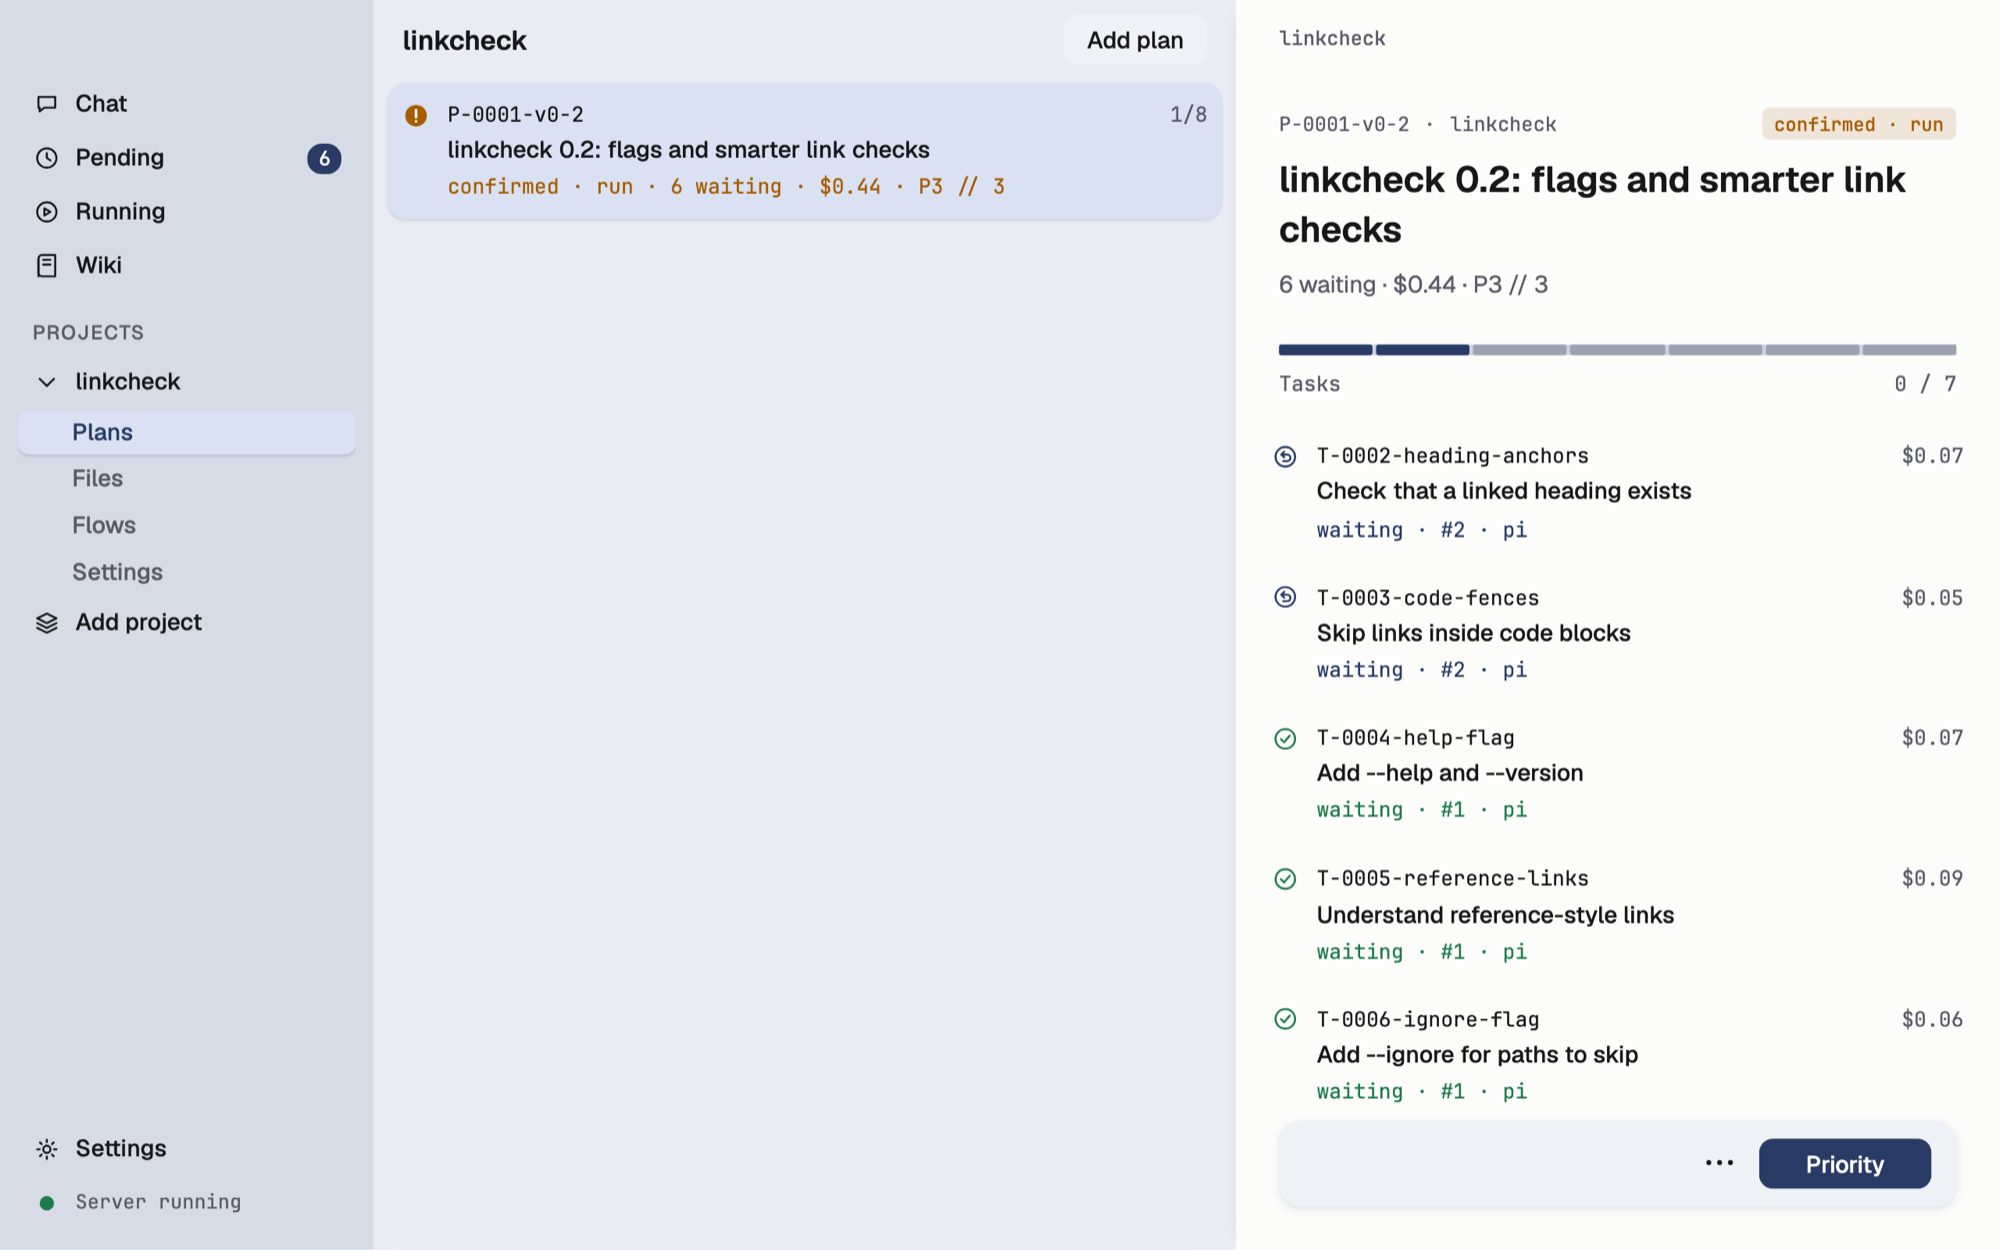
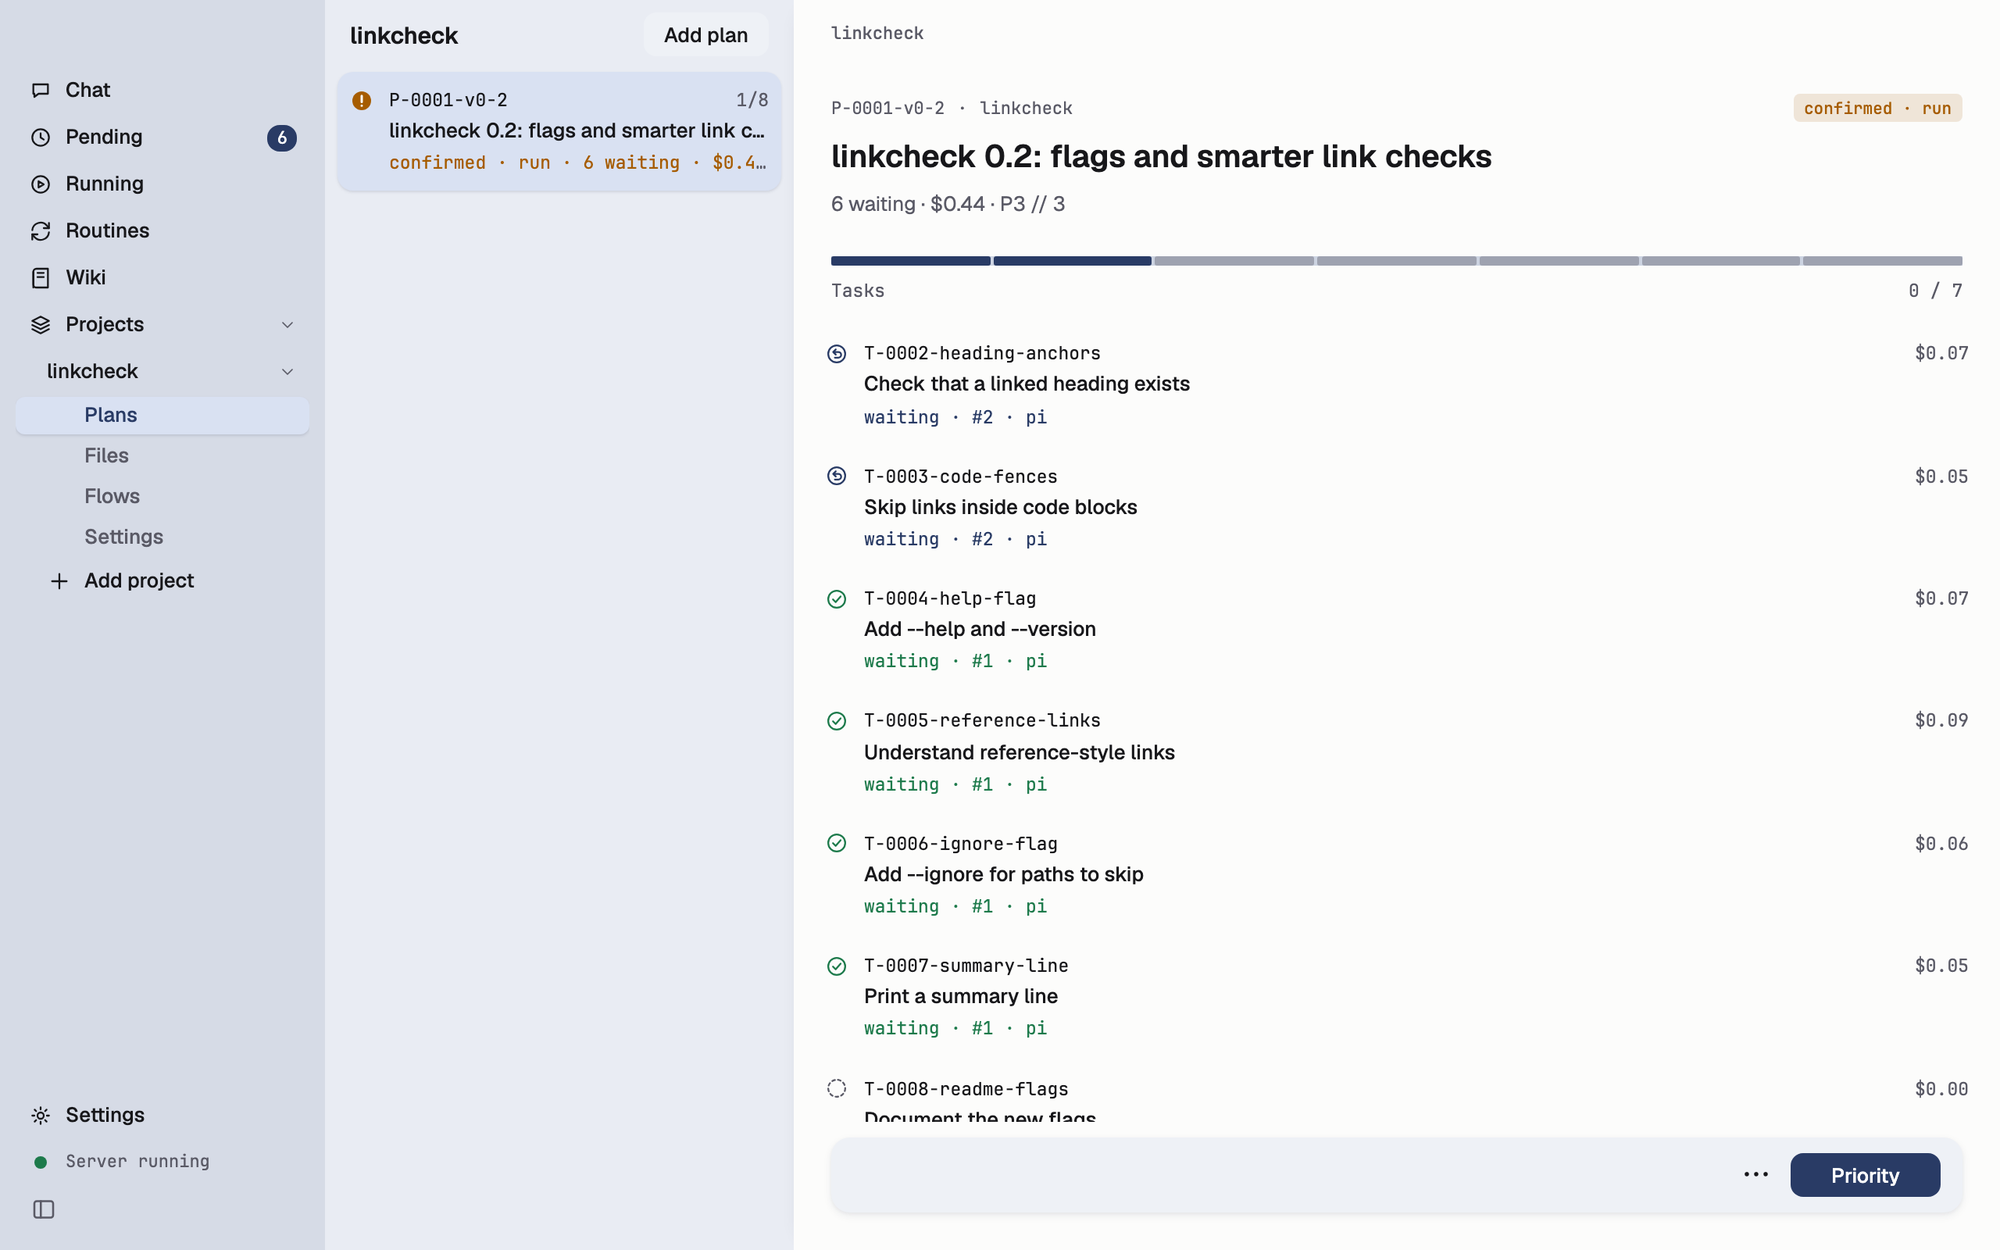
Hero: the flow-not-roles line, a new screenshot with a narrower list, and the CLI link goes to Install

diff --git a/zh/index.html b/zh/index.html
@@ -80,7 +80,7 @@
 }
 </script>
 <link rel="icon" href="../favicon.svg" type="image/svg+xml">
-<link rel="stylesheet" href="../style.css?v=hero2">
+<link rel="stylesheet" href="../style.css?v=hero4">
 <script>document.documentElement.classList.add('js')</script>
 </head>
 <body>
@@ -107,13 +107,13 @@
 <section class="hero hero-app board" aria-label="operad">
   <div class="tile paper name">
     <p class="state s3">agent 任务的代数。</p>
-    <p class="lede">operad 是数学里研究运算怎么组合的结构。在这里，运算是 agent 做出一份产出的过程：需求进去，一个结果出来，再接到下一步。flow 就是你把它们接起来的方式。</p>
+    <p class="lede"><b class="tenet">编排多个 agent，是编排任务要走的流程，不是给 agent 分派角色。</b>operad 是数学里研究运算怎么组合的结构。在这里，运算是 agent 做出一份产出的过程：需求进去，一个结果出来，再接到下一步。flow 就是你把它们接起来的方式。</p>
     <h1>operad</h1>
-    <p class="dl"><a class="btn-dl" href="https://github.com/operad-io/operad/releases/download/v0.3.1/operad-0.3.1-arm64.dmg">下载 macOS 版</a><a class="alt" href="#developers">或安装命令行</a></p>
+    <p class="dl"><a class="btn-dl" href="https://github.com/operad-io/operad/releases/download/v0.3.1/operad-0.3.1-arm64.dmg">下载 macOS 版</a><a class="alt" href="#install">或安装命令行</a></p>
   </div>
 
   <div class="tile soft shot shutter" aria-label="operad 桌面应用：一个计划里的八个任务，有的已合并，有的在等待，有的在运行">
-    <div class="shutter-in"><img src="../media/desktop-plan.png" width="2000" height="1250" alt="operad 桌面应用：一个计划里的八个任务，有的已合并，有的在等待，有的在运行"></div>
+    <div class="shutter-in"><img src="../media/desktop-plan.png?v=4" width="2000" height="1250" alt="operad 桌面应用：一个计划里的八个任务，有的已合并，有的在等待，有的在运行"></div>
   </div>
 
   <div class="pair">

diff --git a/index.html b/index.html
@@ -80,7 +80,7 @@
 }
 </script>
 <link rel="icon" href="favicon.svg" type="image/svg+xml">
-<link rel="stylesheet" href="style.css?v=hero2">
+<link rel="stylesheet" href="style.css?v=hero4">
 <script>document.documentElement.classList.add('js')</script>
 </head>
 <body>
@@ -107,13 +107,13 @@
 <section class="hero hero-app board" aria-label="operad">
   <div class="tile paper name">
     <p class="state s3">The algebra of agent work.</p>
-    <p class="lede">An operad is the mathematics of composing operations. Here an operation is a piece of work an agent turns out: a request goes in, one result comes out, and it feeds the next. A flow is how you compose them.</p>
+    <p class="lede"><b class="tenet">Orchestrating agents means composing the flow a task follows, not handing out roles.</b>An operad is the mathematics of composing operations. Here an operation is a piece of work an agent turns out: a request goes in, one result comes out, and it feeds the next. A flow is how you compose them.</p>
     <h1>operad</h1>
-    <p class="dl"><a class="btn-dl" href="https://github.com/operad-io/operad/releases/download/v0.3.1/operad-0.3.1-arm64.dmg">Download for macOS</a><a class="alt" href="#developers">or install the CLI</a></p>
+    <p class="dl"><a class="btn-dl" href="https://github.com/operad-io/operad/releases/download/v0.3.1/operad-0.3.1-arm64.dmg">Download for macOS</a><a class="alt" href="#install">or install the CLI</a></p>
   </div>
 
   <div class="tile soft shot shutter" aria-label="The operad desktop app: a plan with eight tasks, some merged, some waiting, some running">
-    <div class="shutter-in"><img src="media/desktop-plan.png" width="2000" height="1250" alt="The operad desktop app: a plan with eight tasks, some merged, some waiting, some running"></div>
+    <div class="shutter-in"><img src="media/desktop-plan.png?v=4" width="2000" height="1250" alt="The operad desktop app: a plan with eight tasks, some merged, some waiting, some running"></div>
   </div>
 
   <div class="pair">

diff --git a/style.css b/style.css
@@ -91,6 +91,7 @@ pre code { font-size: inherit; }
 .name .state { max-width: 18ch; }
 .name .lede { max-width: 40ch; color: var(--weak); margin-top: 16px; }
 :lang(zh) .name .lede { max-width: 22em; }
+.name .tenet { display: block; color: var(--ink); font-weight: 600; margin-bottom: 10px; }
 :lang(zh) .name .state { max-width: none; }
 .name h1 { font-size: var(--s1); letter-spacing: -0.05em; line-height: .9; margin-bottom: 0; }
 .term, .phone-tile { padding: 0; overflow: hidden; position: relative; }
@@ -121,7 +122,7 @@ pre code { font-size: inherit; }
 .hero-app .shot { grid-column: 6 / 13; grid-row: 1 / 3; }
 .shot { padding: 28px 0 0 28px; overflow: hidden; position: relative; display: flex; align-items: flex-start; }
 .shot .shutter-in { width: 100%; }
-.shot img { display: block; width: 138%; height: auto; max-width: none; border-radius: 10px 0 0 0; box-shadow: 0 10px 40px rgba(20, 24, 40, .18); }
+.shot img { display: block; width: 130%; height: auto; max-width: none; border-radius: 10px 0 0 0; box-shadow: 0 10px 40px rgba(20, 24, 40, .18); }
 .dl { display: flex; flex-wrap: wrap; align-items: center; gap: 18px; margin-top: 22px; }
 .btn-dl { background: var(--acc); color: var(--on); font-weight: 500; padding: 14px 22px; border-radius: var(--r); text-decoration: none; }
 .btn-dl:hover { background: var(--deep); }
